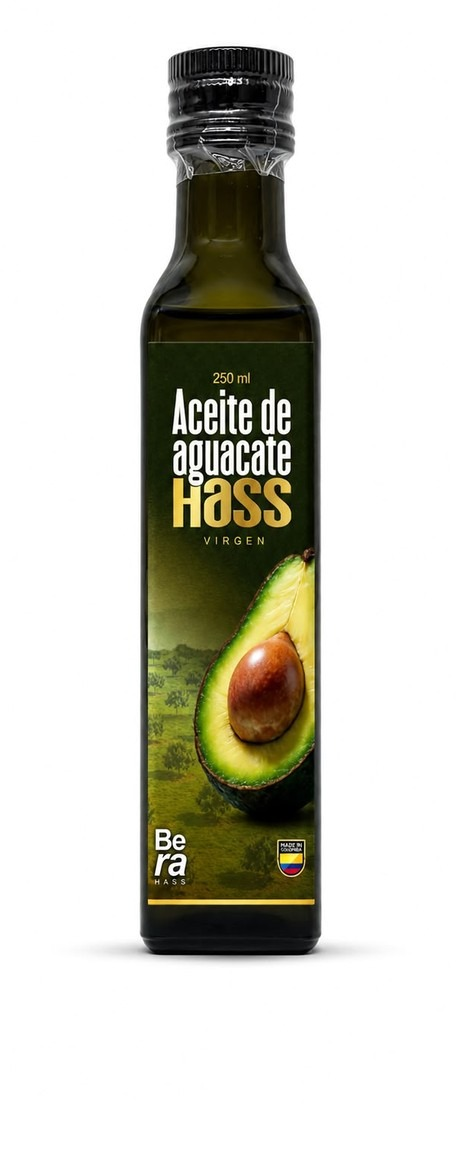
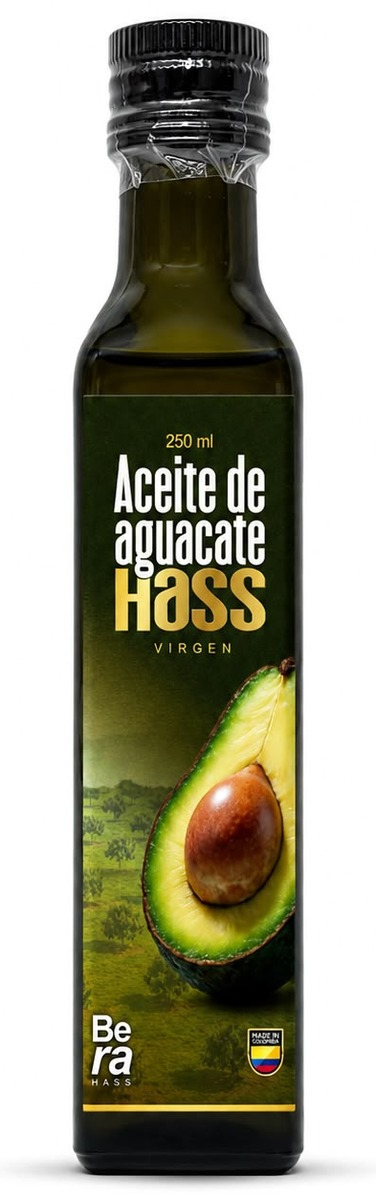
Acerca las tres botellas y estrena preloader "Oro Líquido"
- Fotos: se recortan de nuevo con umbral robusto (200 en vez de 250).
  El umbral anterior capturaba un halo tenue del fondo en dos de las
  tres fotos, así que las botellas no quedaban al mismo tamaño pese a
  estar normalizadas. Ahora las tres miden 244px de alto en pantalla.
- La botella pasa a llenar el 97% del encuadre (antes 92%) y el marco
  de la tarjeta crece de 240 a 268px: las botellas se ven un 26% más
  grandes y más cerca.
- Preloader nuevo: una gota dorada cae, aterriza, la onda se expande y
  de ahí emerge la marca, sobre fondo profundo con luz cenital dorada.
  Se corrige que las ondas quedaban ocultas tras el logo por expandir
  menos que su tamaño. Toda la secuencia cierra en 1,15s para que no
  se corte cuando la página termina de cargar.

Claude-Session: https://claude.ai/code/session_01WxAP8TbwxwrnujQz1ssm5q

diff --git a/styles.css b/styles.css
@@ -57,72 +57,123 @@ button, input, select, textarea { font: inherit; }
     position: fixed;
     inset: 0;
     z-index: 9999;
-    background: linear-gradient(165deg, #ffffff 0%, #fbf9f4 48%, #f1ede1 100%);
+    /* Luz cenital dorada sobre fondo profundo, como un set de foto de producto */
+    background:
+        radial-gradient(90% 60% at 50% 0%, rgba(212,168,26,0.16) 0%, transparent 60%),
+        radial-gradient(120% 120% at 50% 45%, #14180d 0%, #0a0c06 62%, #050603 100%);
     display: flex;
     align-items: center;
     justify-content: center;
     transition: opacity 0.7s var(--transition-smooth), visibility 0.7s var(--transition-smooth);
-}
-/* Halo dorado muy tenue detrás del logo */
-.preloader::after {
-    content: '';
-    position: absolute;
-    width: 460px;
-    height: 460px;
-    border-radius: 50%;
-    background: radial-gradient(circle, rgba(184,150,12,0.10) 0%, transparent 68%);
-    pointer-events: none;
 }
 .preloader.hidden {
     opacity: 0;
     visibility: hidden;
     pointer-events: none;
 }
-.preloader-inner {
-    text-align: center;
+.preloader-inner { text-align: center; }
+
+/* ── Escena: la gota cae, ondea y de ahí emerge la marca ── */
+.pl-stage {
     position: relative;
-    z-index: 1;
-}
-.preloader-logo {
+    width: 150px;
+    height: 150px;
+    margin: 0 auto 1.5rem;
     display: flex;
     align-items: center;
     justify-content: center;
-    margin-bottom: 1.9rem;
+}
+.pl-drop {
+    position: absolute;
+    top: 0;
+    left: 50%;
+    width: 12px;
+    height: 12px;
+    margin-left: -6px;
+    background: linear-gradient(165deg, #f6e6a8 0%, #d4a81a 55%, #a8850a 100%);
+    border-radius: 50% 50% 50% 50% / 65% 65% 35% 35%;
+    box-shadow: 0 0 16px rgba(212,168,26,0.7);
+    opacity: 0;
+    animation: plDrop 0.4s cubic-bezier(0.5, 0.02, 0.72, 0.16) 0.04s forwards;
+}
+@keyframes plDrop {
+    0%   { transform: translateY(-84px) scaleY(1.6) scaleX(0.8); opacity: 0; }
+    22%  { opacity: 1; }
+    80%  { transform: translateY(63px) scaleY(1.25) scaleX(0.9); opacity: 1; }
+    100% { transform: translateY(72px) scaleY(0.25) scaleX(2.1); opacity: 0; }
+}
+.pl-ring {
+    position: absolute;
+    width: 104px;
+    height: 104px;
+    border-radius: 50%;
+    border: 1px solid rgba(212,168,26,0.5);
+    opacity: 0;
+    animation: plRing 0.95s cubic-bezier(0.16, 1, 0.3, 1) 0.38s forwards;
+}
+.pl-ring-b {
+    animation-delay: 0.52s;
+    border-color: rgba(212,168,26,0.26);
+}
+@keyframes plRing {
+    0%   { transform: scale(0.5); opacity: 0; }
+    22%  { opacity: 1; }
+    100% { transform: scale(3.1); opacity: 0; }
+}
+.preloader-logo {
+    position: relative;
+    display: flex;
+    align-items: center;
+    justify-content: center;
 }
 .preloader-logo-img {
     width: 104px;
     height: auto;
     border-radius: 24px;
-    box-shadow: 0 20px 44px rgba(26,60,40,0.20), 0 4px 12px rgba(0,0,0,0.06);
-    animation: plRise 0.75s cubic-bezier(0.16, 1, 0.3, 1) both;
+    box-shadow:
+        0 0 0 1px rgba(212,168,26,0.35),
+        0 18px 44px rgba(0,0,0,0.6),
+        0 0 40px rgba(212,168,26,0.18);
+    opacity: 0;
+    animation: plLogo 0.7s cubic-bezier(0.16, 1, 0.3, 1) 0.42s forwards;
 }
-@keyframes plRise {
-    from { opacity: 0; transform: translateY(16px) scale(0.94); }
+@keyframes plLogo {
+    from { opacity: 0; transform: scale(0.82); }
     to   { opacity: 1; transform: none; }
 }
-.preloader-brand {
-    display: none;
+.pl-word {
+    display: block;
+    font-family: var(--font-display);
+    font-size: 0.6rem;
+    font-weight: 600;
+    letter-spacing: 0.42em;
+    text-transform: uppercase;
+    color: rgba(212,168,26,0.85);
+    margin-bottom: 1.1rem;
+    padding-left: 0.42em;
+    opacity: 0;
+    animation: plWord 0.55s ease 0.78s forwards;
 }
+@keyframes plWord {
+    from { opacity: 0; transform: translateY(6px); }
+    to   { opacity: 1; transform: none; }
+}
+.preloader-brand { display: none; }
 .preloader-bar {
-    width: 132px;
+    width: 120px;
     height: 2px;
-    background: rgba(26,60,40,0.10);
+    background: rgba(255,255,255,0.09);
     border-radius: 4px;
     overflow: hidden;
     margin: 0 auto;
-    position: relative;
-    animation: plFadeIn 0.5s ease 0.25s both;
-}
-@keyframes plFadeIn {
-    from { opacity: 0; }
-    to   { opacity: 1; }
 }
 .preloader-fill {
     height: 100%;
     width: 0;
-    background: linear-gradient(90deg, var(--gold), var(--gold-2));
+    background: linear-gradient(90deg, var(--gold), #f0d97a, var(--gold));
     border-radius: 4px;
-    animation: preloaderFill 1.1s cubic-bezier(0.4, 0, 0.2, 1) forwards;
+    box-shadow: 0 0 10px rgba(212,168,26,0.5);
+    animation: preloaderFill 1.15s cubic-bezier(0.4, 0, 0.2, 1) forwards;
 }
 @keyframes preloaderFill {
     from { width: 0; }
@@ -1132,7 +1183,7 @@ button, input, select, textarea { font: inherit; }
 }
 .prod-header {
     position: relative;
-    height: 240px;
+    height: 268px;
     display: flex;
     align-items: center;
     justify-content: center;
@@ -1148,11 +1199,11 @@ button, input, select, textarea { font: inherit; }
     object-fit: contain;
     transition: transform 0.4s ease;
 }
-.prod-img-garrafa { max-height: 200px; }
+.prod-img-garrafa { max-height: 228px; }
 /* Fotos de botella recortadas (virgen y extra virgen): la botella ocupa el
    92% del encuadre, así que se limitan a 200px para que se vea del mismo
    tamaño que la del refinado. */
-.prod-img-botella { max-height: 200px; }
+.prod-img-botella { max-height: 252px; }
 .prod-img-refinado {
     max-height: 230px;
     filter: drop-shadow(0 14px 22px rgba(0,0,0,0.18));
@@ -1951,11 +2002,11 @@ a.c-card.c-link:hover {
     .products { padding: 3.5rem 0; }
     .products-grid { max-width: 100%; }
     .prod-card { border-radius: 12px; }
-    .prod-header { height: 200px; }
+    .prod-header { height: 226px; }
     .prod-img { max-height: 150px; }
-    .prod-img-garrafa { max-height: 170px; }
+    .prod-img-garrafa { max-height: 192px; }
     .prod-img-refinado { max-height: 190px; }
-    .prod-img-botella { max-height: 170px; }
+    .prod-img-botella { max-height: 212px; }
     .prod-info { padding: 1.2rem; }
     .prod-info h3 { font-size: 1.05rem; }
     .prod-info > p { font-size: 0.8rem; line-height: 1.6; }
@@ -2035,7 +2086,8 @@ a.c-card.c-link:hover {
     .hero-text h1 { font-size: 1.8rem; }
     .hero-subtitle { font-size: 0.82rem; margin-bottom: 1rem; }
     .about-panorama { min-height: 60vh; }
-    .preloader-logo-img { width: 76px; border-radius: 18px; }
+    .preloader-logo-img { width: 82px; border-radius: 20px; }
+    .pl-stage { width: 124px; height: 124px; }
 }
 
 /* ─── REDUCED MOTION ─── */

diff --git a/index.html b/index.html
@@ -19,7 +19,7 @@
     <meta name="twitter:description" content="Aceite de aguacate Hass 100% puro de Colombia.">
     <meta name="twitter:image" content="https://berahass.co/hero-cultivo.jpg">
     <!-- Theme color for mobile browsers -->
-    <meta name="theme-color" content="#fbf9f4">
+    <meta name="theme-color" content="#0a0c06">
     <link rel="icon" type="image/png" sizes="48x48" href="favicon-48-v2.png">
     <link rel="icon" type="image/png" sizes="192x192" href="favicon-192-v2.png">
     <link rel="apple-touch-icon" sizes="180x180" href="apple-touch-icon-v2.png">
@@ -41,8 +41,8 @@
     <style>
         *,*::before,*::after{box-sizing:border-box;margin:0;padding:0}
         body{font-family:-apple-system,sans-serif;overflow-x:hidden}
-        .preloader{position:fixed;inset:0;z-index:9999;background:linear-gradient(165deg,#fff,#fbf9f4 48%,#f1ede1);display:flex;align-items:center;justify-content:center}
-        .preloader-logo-img{width:104px;height:auto;border-radius:24px;box-shadow:0 20px 44px rgba(26,60,40,.2)}
+        .preloader{position:fixed;inset:0;z-index:9999;background:radial-gradient(90% 60% at 50% 0%,rgba(212,168,26,.16),transparent 60%),radial-gradient(120% 120% at 50% 45%,#14180d,#0a0c06 62%,#050603);display:flex;align-items:center;justify-content:center}
+        .preloader-logo-img{width:104px;height:auto;border-radius:24px;opacity:0}
         .navbar{position:fixed;top:0;left:0;right:0;z-index:1000;padding:.9rem 0;background:rgba(255,255,255,.7);backdrop-filter:blur(20px)}
         .nav-container{display:flex;align-items:center;justify-content:space-between;flex-wrap:nowrap}
         .nav-links{display:flex;align-items:center;gap:1.2rem}
@@ -92,9 +92,15 @@
     <!-- Preloader -->
     <div class="preloader" id="preloader">
         <div class="preloader-inner">
-            <div class="preloader-logo">
-                <img src="BERAHASS1.png" alt="Berahass" class="preloader-logo-img">
+            <div class="pl-stage">
+                <span class="pl-drop"></span>
+                <span class="pl-ring"></span>
+                <span class="pl-ring pl-ring-b"></span>
+                <div class="preloader-logo">
+                    <img src="BERAHASS1.png" alt="Berahass" class="preloader-logo-img">
+                </div>
             </div>
+            <span class="pl-word">Aceite de Aguacate Hass</span>
             <div class="preloader-bar"><div class="preloader-fill"></div></div>
         </div>
     </div>
@@ -324,7 +330,7 @@
                 <!-- Refinado -->
                 <div class="prod-card">
                     <div class="prod-header refinado-bg">
-                        <img src="aceite-refinado-bottle-v2.jpeg" alt="Aceite de Aguacate Hass Refinado 250ml" class="prod-img prod-img-botella" width="460" height="1150" loading="lazy" decoding="async">
+                        <img src="aceite-refinado-bottle-v2.jpeg" alt="Aceite de Aguacate Hass Refinado 250ml" class="prod-img prod-img-botella" width="376" height="1200" loading="lazy" decoding="async">
                         <div class="prod-badge">250 ml</div>
                         <span class="prod-tag">Cocina</span>
                     </div>
@@ -344,7 +350,7 @@
                 <!-- Virgen -->
                 <div class="prod-card">
                     <div class="prod-header virgen-bg">
-                        <img src="aceite-virgen-bottle.jpg" alt="Aceite de Aguacate Hass Virgen 250ml" class="prod-img prod-img-botella" width="460" height="1150" loading="lazy" decoding="async">
+                        <img src="aceite-virgen-bottle.jpg" alt="Aceite de Aguacate Hass Virgen 250ml" class="prod-img prod-img-botella" width="376" height="1200" loading="lazy" decoding="async">
                         <div class="prod-badge">250 ml</div>
                         <span class="prod-tag">Natural</span>
                     </div>
@@ -364,7 +370,7 @@
                 <!-- Extra Virgen -->
                 <div class="prod-card featured">
                     <div class="prod-header extravirgen-bg">
-                        <img src="aceite-extravirgen-bottle.jpg" alt="Aceite de Aguacate Hass Extra Virgen 250ml" class="prod-img prod-img-botella" width="460" height="1150" loading="lazy" decoding="async">
+                        <img src="aceite-extravirgen-bottle.jpg" alt="Aceite de Aguacate Hass Extra Virgen 250ml" class="prod-img prod-img-botella" width="376" height="1200" loading="lazy" decoding="async">
                         <div class="prod-badge gold">250 ml</div>
                         <span class="prod-tag gold">Premium</span>
                     </div>

diff --git a/producto-extravirgen.html b/producto-extravirgen.html
@@ -82,7 +82,7 @@
                 <div class="prod-gallery">
                     <div class="prod-gallery-main extravirgen-bg">
                         <div class="prod-gallery-badge prod-gallery-badge-gold">250 ml &bull; Premium</div>
-                        <img src="aceite-extravirgen-bottle.jpg" alt="Aceite de Aguacate Hass Extra Virgen 250ml" class="prod-gallery-img prod-gallery-img-botella" width="460" height="1150" fetchpriority="high" decoding="async">
+                        <img src="aceite-extravirgen-bottle.jpg" alt="Aceite de Aguacate Hass Extra Virgen 250ml" class="prod-gallery-img prod-gallery-img-botella" width="376" height="1200" fetchpriority="high" decoding="async">
                     </div>
                     <div class="prod-gallery-features">
                         <div class="gallery-feat"><svg width="20" height="20" viewBox="0 0 24 24" fill="none" stroke="currentColor" stroke-width="2"><path d="M12 22c5.523 0 10-4.477 10-10S17.523 2 12 2 2 6.477 2 12s4.477 10 10 10z"/><path d="M9 12l2 2 4-4"/></svg><span>Primera Extracción</span></div>
@@ -122,8 +122,8 @@
             <div class="related-products">
                 <h3>También te puede interesar</h3>
                 <div class="related-grid related-grid-3">
-                    <a href="producto-virgen.html" class="related-card"><div class="related-img virgen-bg"><img src="aceite-virgen-bottle.jpg" alt="Aceite Virgen" width="460" height="1150" loading="lazy" decoding="async"></div><div class="related-info"><h4>Aceite Virgen</h4><span class="related-price">$28.900 COP</span></div></a>
-                    <a href="producto-refinado.html" class="related-card"><div class="related-img refinado-bg"><img src="aceite-refinado-bottle-v2.jpeg" alt="Aceite Refinado" width="460" height="1150" loading="lazy" decoding="async"></div><div class="related-info"><h4>Aceite Refinado</h4><span class="related-price">$26.900 COP</span></div></a>
+                    <a href="producto-virgen.html" class="related-card"><div class="related-img virgen-bg"><img src="aceite-virgen-bottle.jpg" alt="Aceite Virgen" width="376" height="1200" loading="lazy" decoding="async"></div><div class="related-info"><h4>Aceite Virgen</h4><span class="related-price">$28.900 COP</span></div></a>
+                    <a href="producto-refinado.html" class="related-card"><div class="related-img refinado-bg"><img src="aceite-refinado-bottle-v2.jpeg" alt="Aceite Refinado" width="376" height="1200" loading="lazy" decoding="async"></div><div class="related-info"><h4>Aceite Refinado</h4><span class="related-price">$26.900 COP</span></div></a>
                     <a href="producto-industrial.html" class="related-card"><div class="related-img industrial-bg"><img src="garrafa.png" alt="Garrafa Industrial" loading="lazy" decoding="async"></div><div class="related-info"><h4>Garrafa Industrial 5L</h4><span class="related-price">$509.900 COP</span></div></a>
                 </div>
             </div>

diff --git a/producto-refinado.html b/producto-refinado.html
@@ -93,7 +93,7 @@
                 <div class="prod-gallery">
                     <div class="prod-gallery-main refinado-bg">
                         <div class="prod-gallery-badge">250 ml</div>
-                        <img src="aceite-refinado-bottle-v2.jpeg" alt="Aceite de Aguacate Hass Refinado 250ml" class="prod-gallery-img prod-gallery-img-botella" width="460" height="1150" fetchpriority="high" decoding="async">
+                        <img src="aceite-refinado-bottle-v2.jpeg" alt="Aceite de Aguacate Hass Refinado 250ml" class="prod-gallery-img prod-gallery-img-botella" width="376" height="1200" fetchpriority="high" decoding="async">
                     </div>
                     <div class="prod-gallery-features">
                         <div class="gallery-feat">
@@ -191,8 +191,8 @@
             <div class="related-products">
                 <h3>También te puede interesar</h3>
                 <div class="related-grid related-grid-3">
-                    <a href="producto-virgen.html" class="related-card"><div class="related-img virgen-bg"><img src="aceite-virgen-bottle.jpg" alt="Aceite Virgen" width="460" height="1150" loading="lazy" decoding="async"></div><div class="related-info"><h4>Aceite Virgen</h4><span class="related-price">$28.900 COP</span></div></a>
-                    <a href="producto-extravirgen.html" class="related-card"><div class="related-img extravirgen-bg"><img src="aceite-extravirgen-bottle.jpg" alt="Aceite Extra Virgen" width="460" height="1150" loading="lazy" decoding="async"></div><div class="related-info"><h4>Aceite Extra Virgen</h4><span class="related-price">$31.900 COP</span></div></a>
+                    <a href="producto-virgen.html" class="related-card"><div class="related-img virgen-bg"><img src="aceite-virgen-bottle.jpg" alt="Aceite Virgen" width="376" height="1200" loading="lazy" decoding="async"></div><div class="related-info"><h4>Aceite Virgen</h4><span class="related-price">$28.900 COP</span></div></a>
+                    <a href="producto-extravirgen.html" class="related-card"><div class="related-img extravirgen-bg"><img src="aceite-extravirgen-bottle.jpg" alt="Aceite Extra Virgen" width="376" height="1200" loading="lazy" decoding="async"></div><div class="related-info"><h4>Aceite Extra Virgen</h4><span class="related-price">$31.900 COP</span></div></a>
                     <a href="producto-industrial.html" class="related-card"><div class="related-img industrial-bg"><img src="garrafa.png" alt="Garrafa Industrial" loading="lazy" decoding="async"></div><div class="related-info"><h4>Garrafa Industrial 5L</h4><span class="related-price">$509.900 COP</span></div></a>
                 </div>
             </div>

diff --git a/producto-industrial.html b/producto-industrial.html
@@ -103,9 +103,9 @@
             <div class="related-products">
                 <h3>También te puede interesar</h3>
                 <div class="related-grid related-grid-3">
-                    <a href="producto-refinado.html" class="related-card"><div class="related-img refinado-bg"><img src="aceite-refinado-bottle-v2.jpeg" alt="Aceite Refinado" width="460" height="1150" loading="lazy" decoding="async"></div><div class="related-info"><h4>Aceite Refinado</h4><span class="related-price">$26.900 COP</span></div></a>
-                    <a href="producto-virgen.html" class="related-card"><div class="related-img virgen-bg"><img src="aceite-virgen-bottle.jpg" alt="Aceite Virgen" width="460" height="1150" loading="lazy" decoding="async"></div><div class="related-info"><h4>Aceite Virgen</h4><span class="related-price">$28.900 COP</span></div></a>
-                    <a href="producto-extravirgen.html" class="related-card"><div class="related-img extravirgen-bg"><img src="aceite-extravirgen-bottle.jpg" alt="Aceite Extra Virgen" width="460" height="1150" loading="lazy" decoding="async"></div><div class="related-info"><h4>Aceite Extra Virgen</h4><span class="related-price">$31.900 COP</span></div></a>
+                    <a href="producto-refinado.html" class="related-card"><div class="related-img refinado-bg"><img src="aceite-refinado-bottle-v2.jpeg" alt="Aceite Refinado" width="376" height="1200" loading="lazy" decoding="async"></div><div class="related-info"><h4>Aceite Refinado</h4><span class="related-price">$26.900 COP</span></div></a>
+                    <a href="producto-virgen.html" class="related-card"><div class="related-img virgen-bg"><img src="aceite-virgen-bottle.jpg" alt="Aceite Virgen" width="376" height="1200" loading="lazy" decoding="async"></div><div class="related-info"><h4>Aceite Virgen</h4><span class="related-price">$28.900 COP</span></div></a>
+                    <a href="producto-extravirgen.html" class="related-card"><div class="related-img extravirgen-bg"><img src="aceite-extravirgen-bottle.jpg" alt="Aceite Extra Virgen" width="376" height="1200" loading="lazy" decoding="async"></div><div class="related-info"><h4>Aceite Extra Virgen</h4><span class="related-price">$31.900 COP</span></div></a>
                 </div>
             </div>
         </div>

diff --git a/producto-virgen.html b/producto-virgen.html
@@ -93,7 +93,7 @@
                 <div class="prod-gallery">
                     <div class="prod-gallery-main virgen-bg">
                         <div class="prod-gallery-badge">250 ml</div>
-                        <img src="aceite-virgen-bottle.jpg" alt="Aceite de Aguacate Hass Virgen 250ml" class="prod-gallery-img prod-gallery-img-botella" width="460" height="1150" fetchpriority="high" decoding="async">
+                        <img src="aceite-virgen-bottle.jpg" alt="Aceite de Aguacate Hass Virgen 250ml" class="prod-gallery-img prod-gallery-img-botella" width="376" height="1200" fetchpriority="high" decoding="async">
                     </div>
                     <div class="prod-gallery-features">
                         <div class="gallery-feat">
@@ -193,7 +193,7 @@
                 <div class="related-grid related-grid-3">
                     <a href="producto-extravirgen.html" class="related-card">
                         <div class="related-img extravirgen-bg">
-                            <img src="aceite-extravirgen-bottle.jpg" alt="Aceite Extra Virgen" width="460" height="1150" loading="lazy" decoding="async">
+                            <img src="aceite-extravirgen-bottle.jpg" alt="Aceite Extra Virgen" width="376" height="1200" loading="lazy" decoding="async">
                         </div>
                         <div class="related-info">
                             <h4>Aceite Extra Virgen</h4>
@@ -202,7 +202,7 @@
                     </a>
                     <a href="producto-refinado.html" class="related-card">
                         <div class="related-img refinado-bg">
-                            <img src="aceite-refinado-bottle-v2.jpeg" alt="Aceite Refinado" width="460" height="1150" loading="lazy" decoding="async">
+                            <img src="aceite-refinado-bottle-v2.jpeg" alt="Aceite Refinado" width="376" height="1200" loading="lazy" decoding="async">
                         </div>
                         <div class="related-info">
                             <h4>Aceite Refinado</h4>
